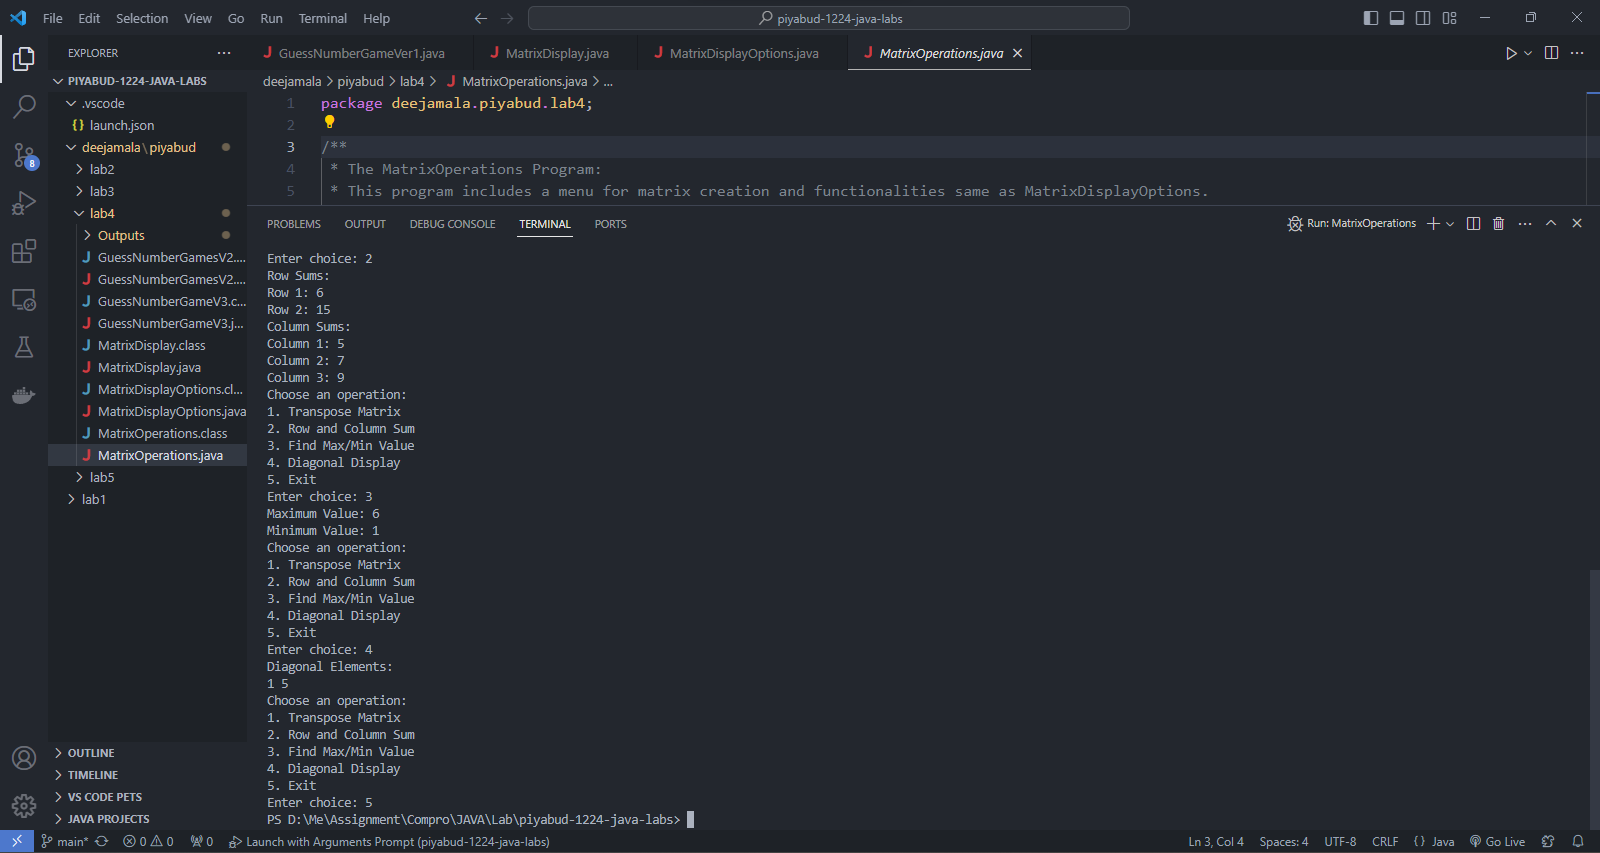
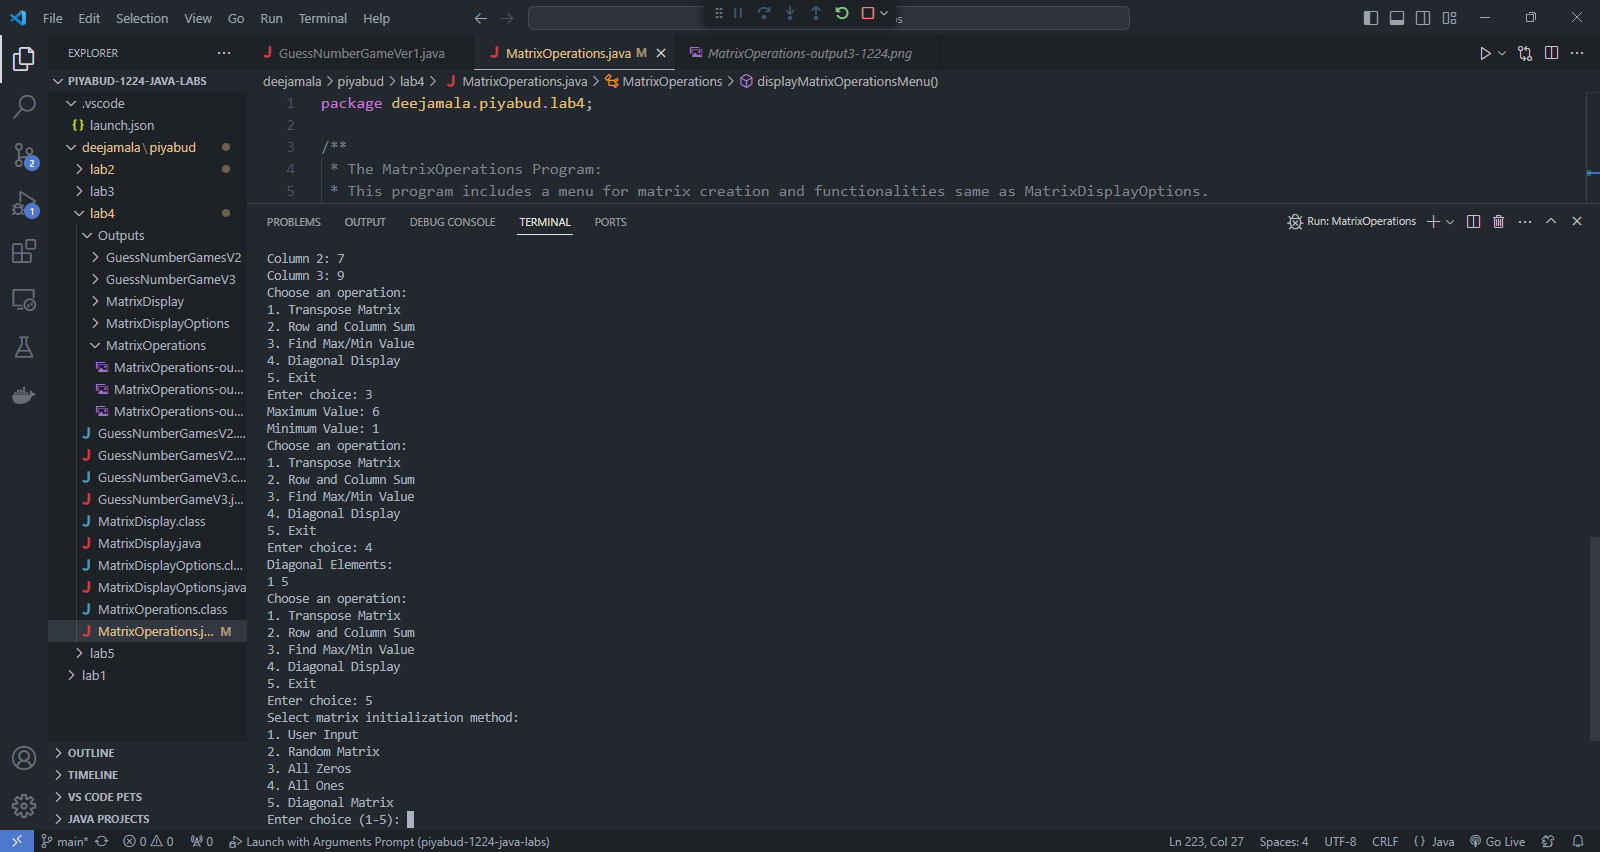
update lab4

diff --git a/deejamala/piyabud/lab2/PrimitiveDataType.java b/deejamala/piyabud/lab2/PrimitiveDataType.java
@@ -21,7 +21,7 @@ public class PrimitiveDataType {
         short myshort = (short) (student_id%1000);
         int myint = student_id%1000000;
         long mylong = student_id%100000000;
-        float myfloat = (float) (student_id%100) /100f;
+        float myfloat = (float) (student_id%100) /100;
         double mydouble = (double) (student_id%10000000) /1000000;
         char mychar = name.charAt(0);
         boolean myboolean = (student_id%10) %2 != 0;

diff --git a/deejamala/piyabud/lab4/MatrixOperations.java b/deejamala/piyabud/lab4/MatrixOperations.java
@@ -219,6 +219,7 @@ public class MatrixOperations {
                     diagonalDisplay();
                     break;
                 case 5:
+                    displayMatrixCreationMenu();
                     break;
                 default:
                     break;
